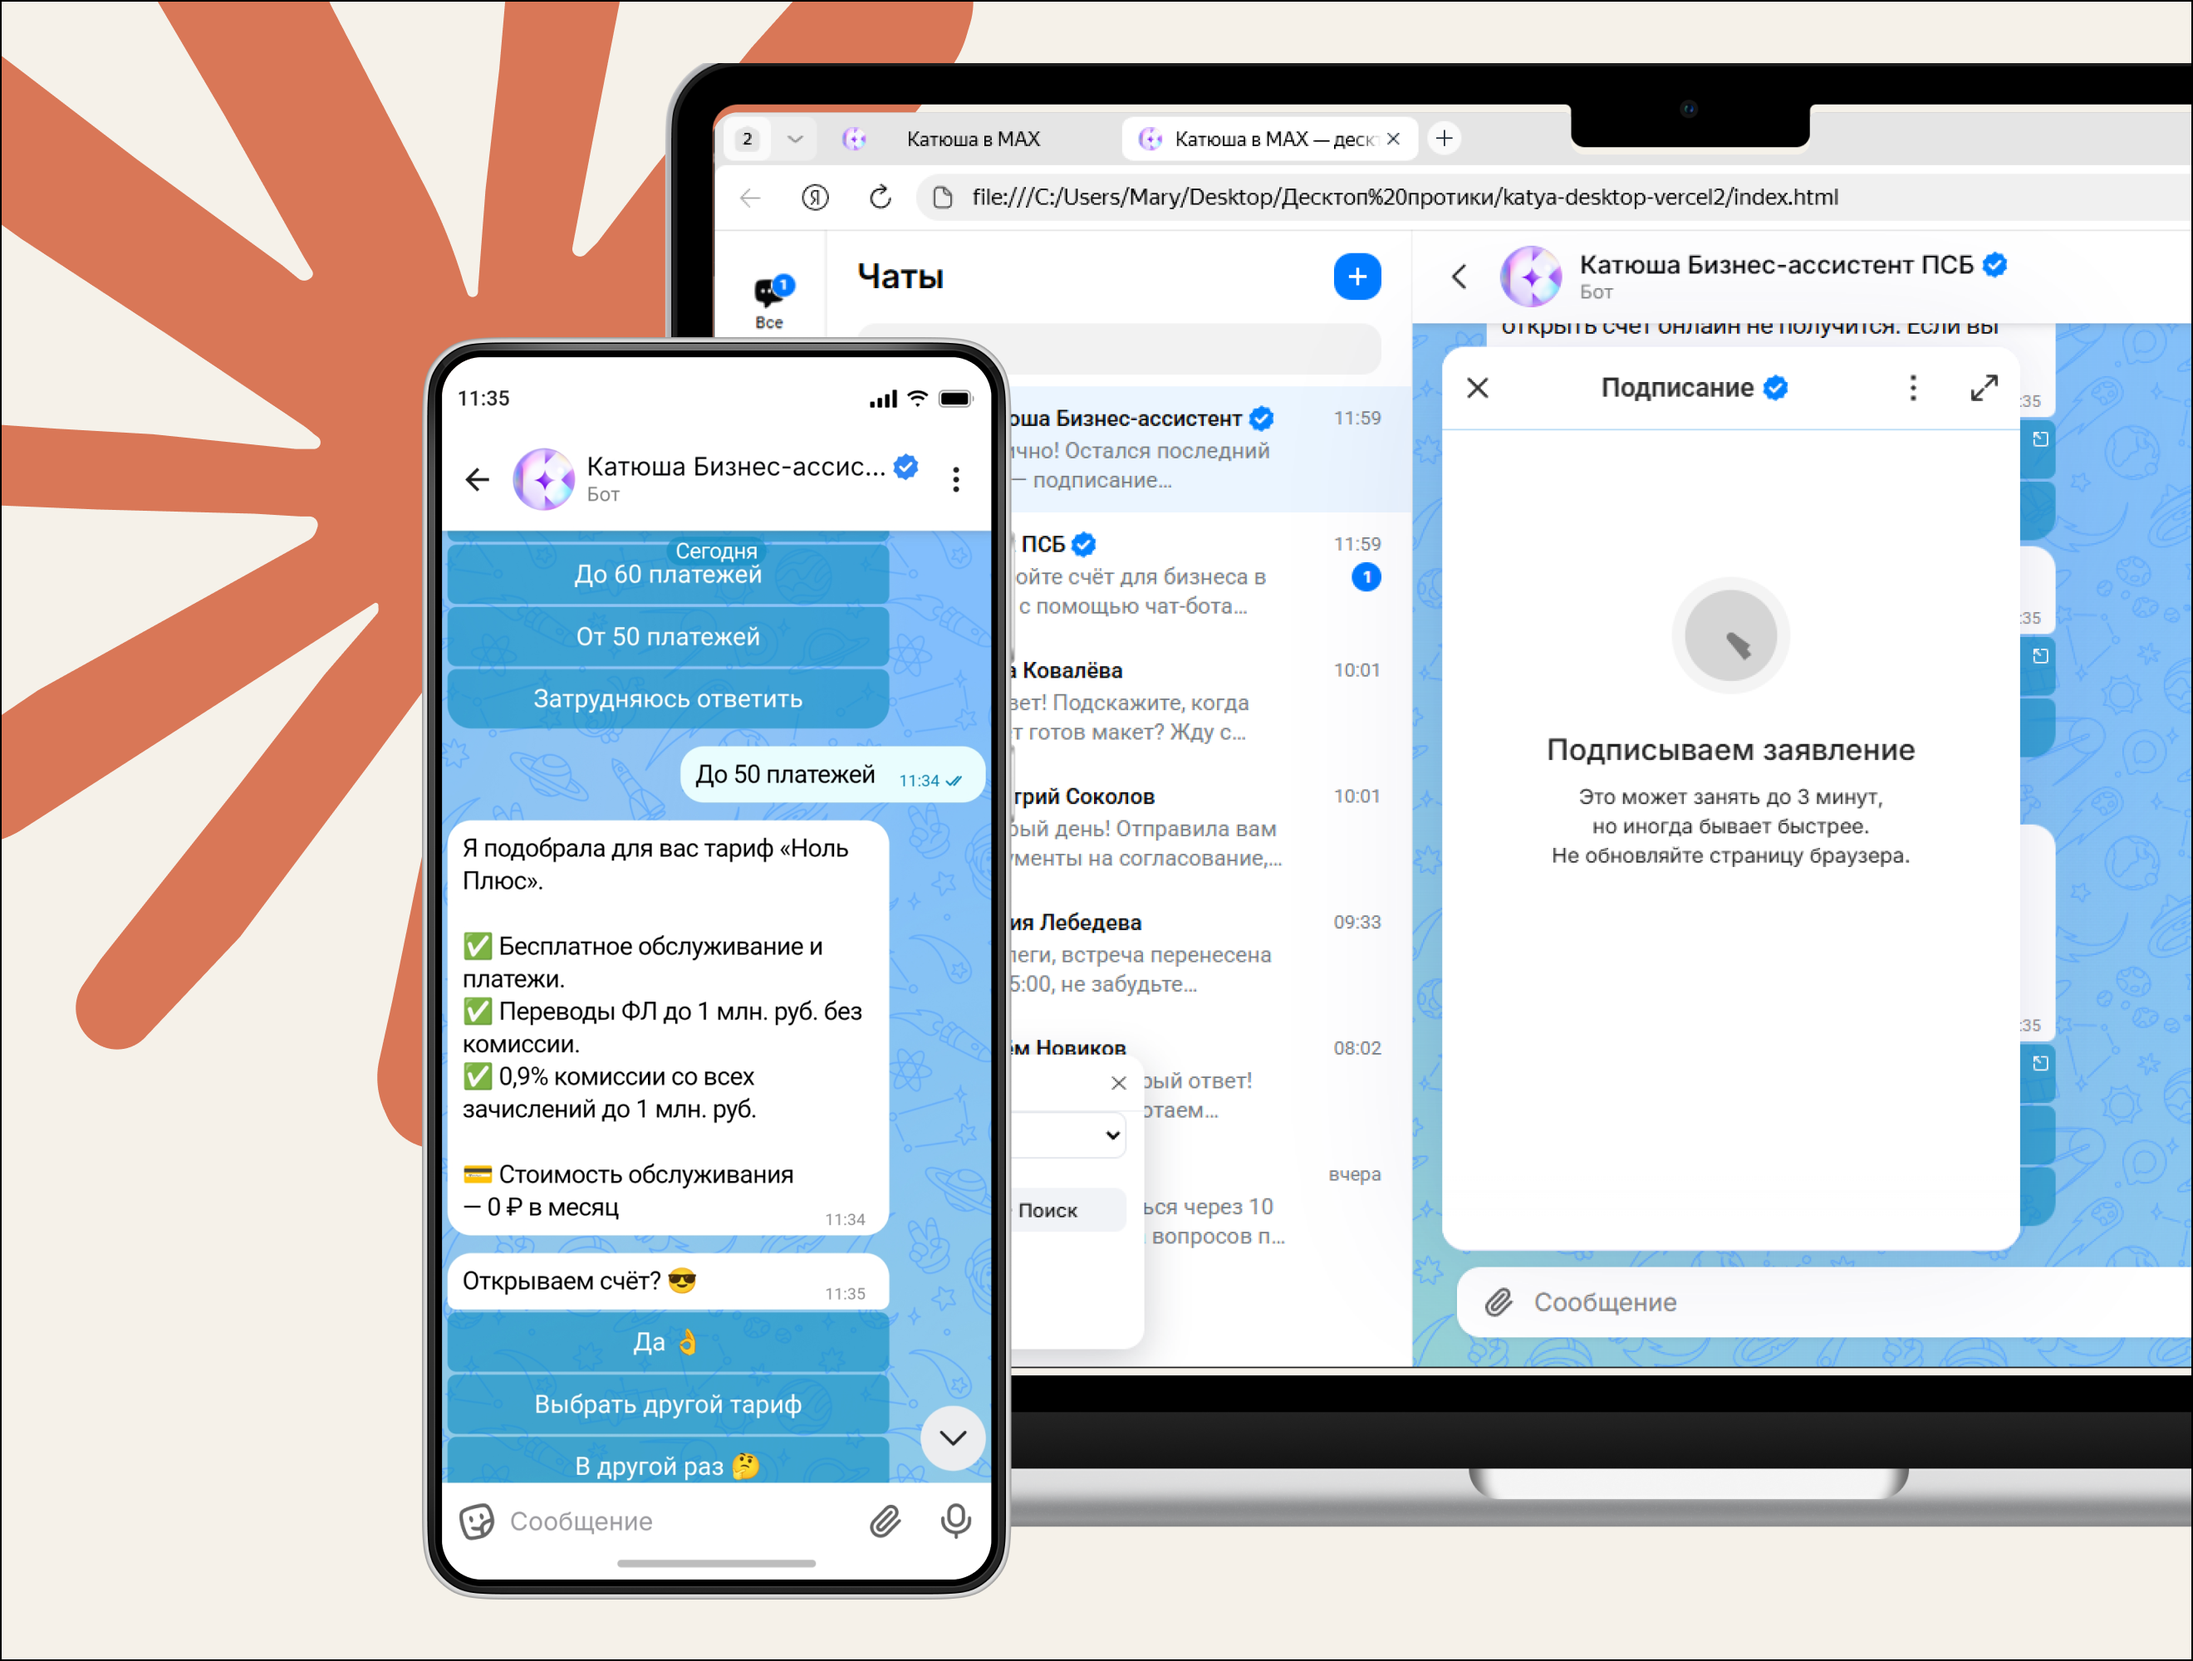
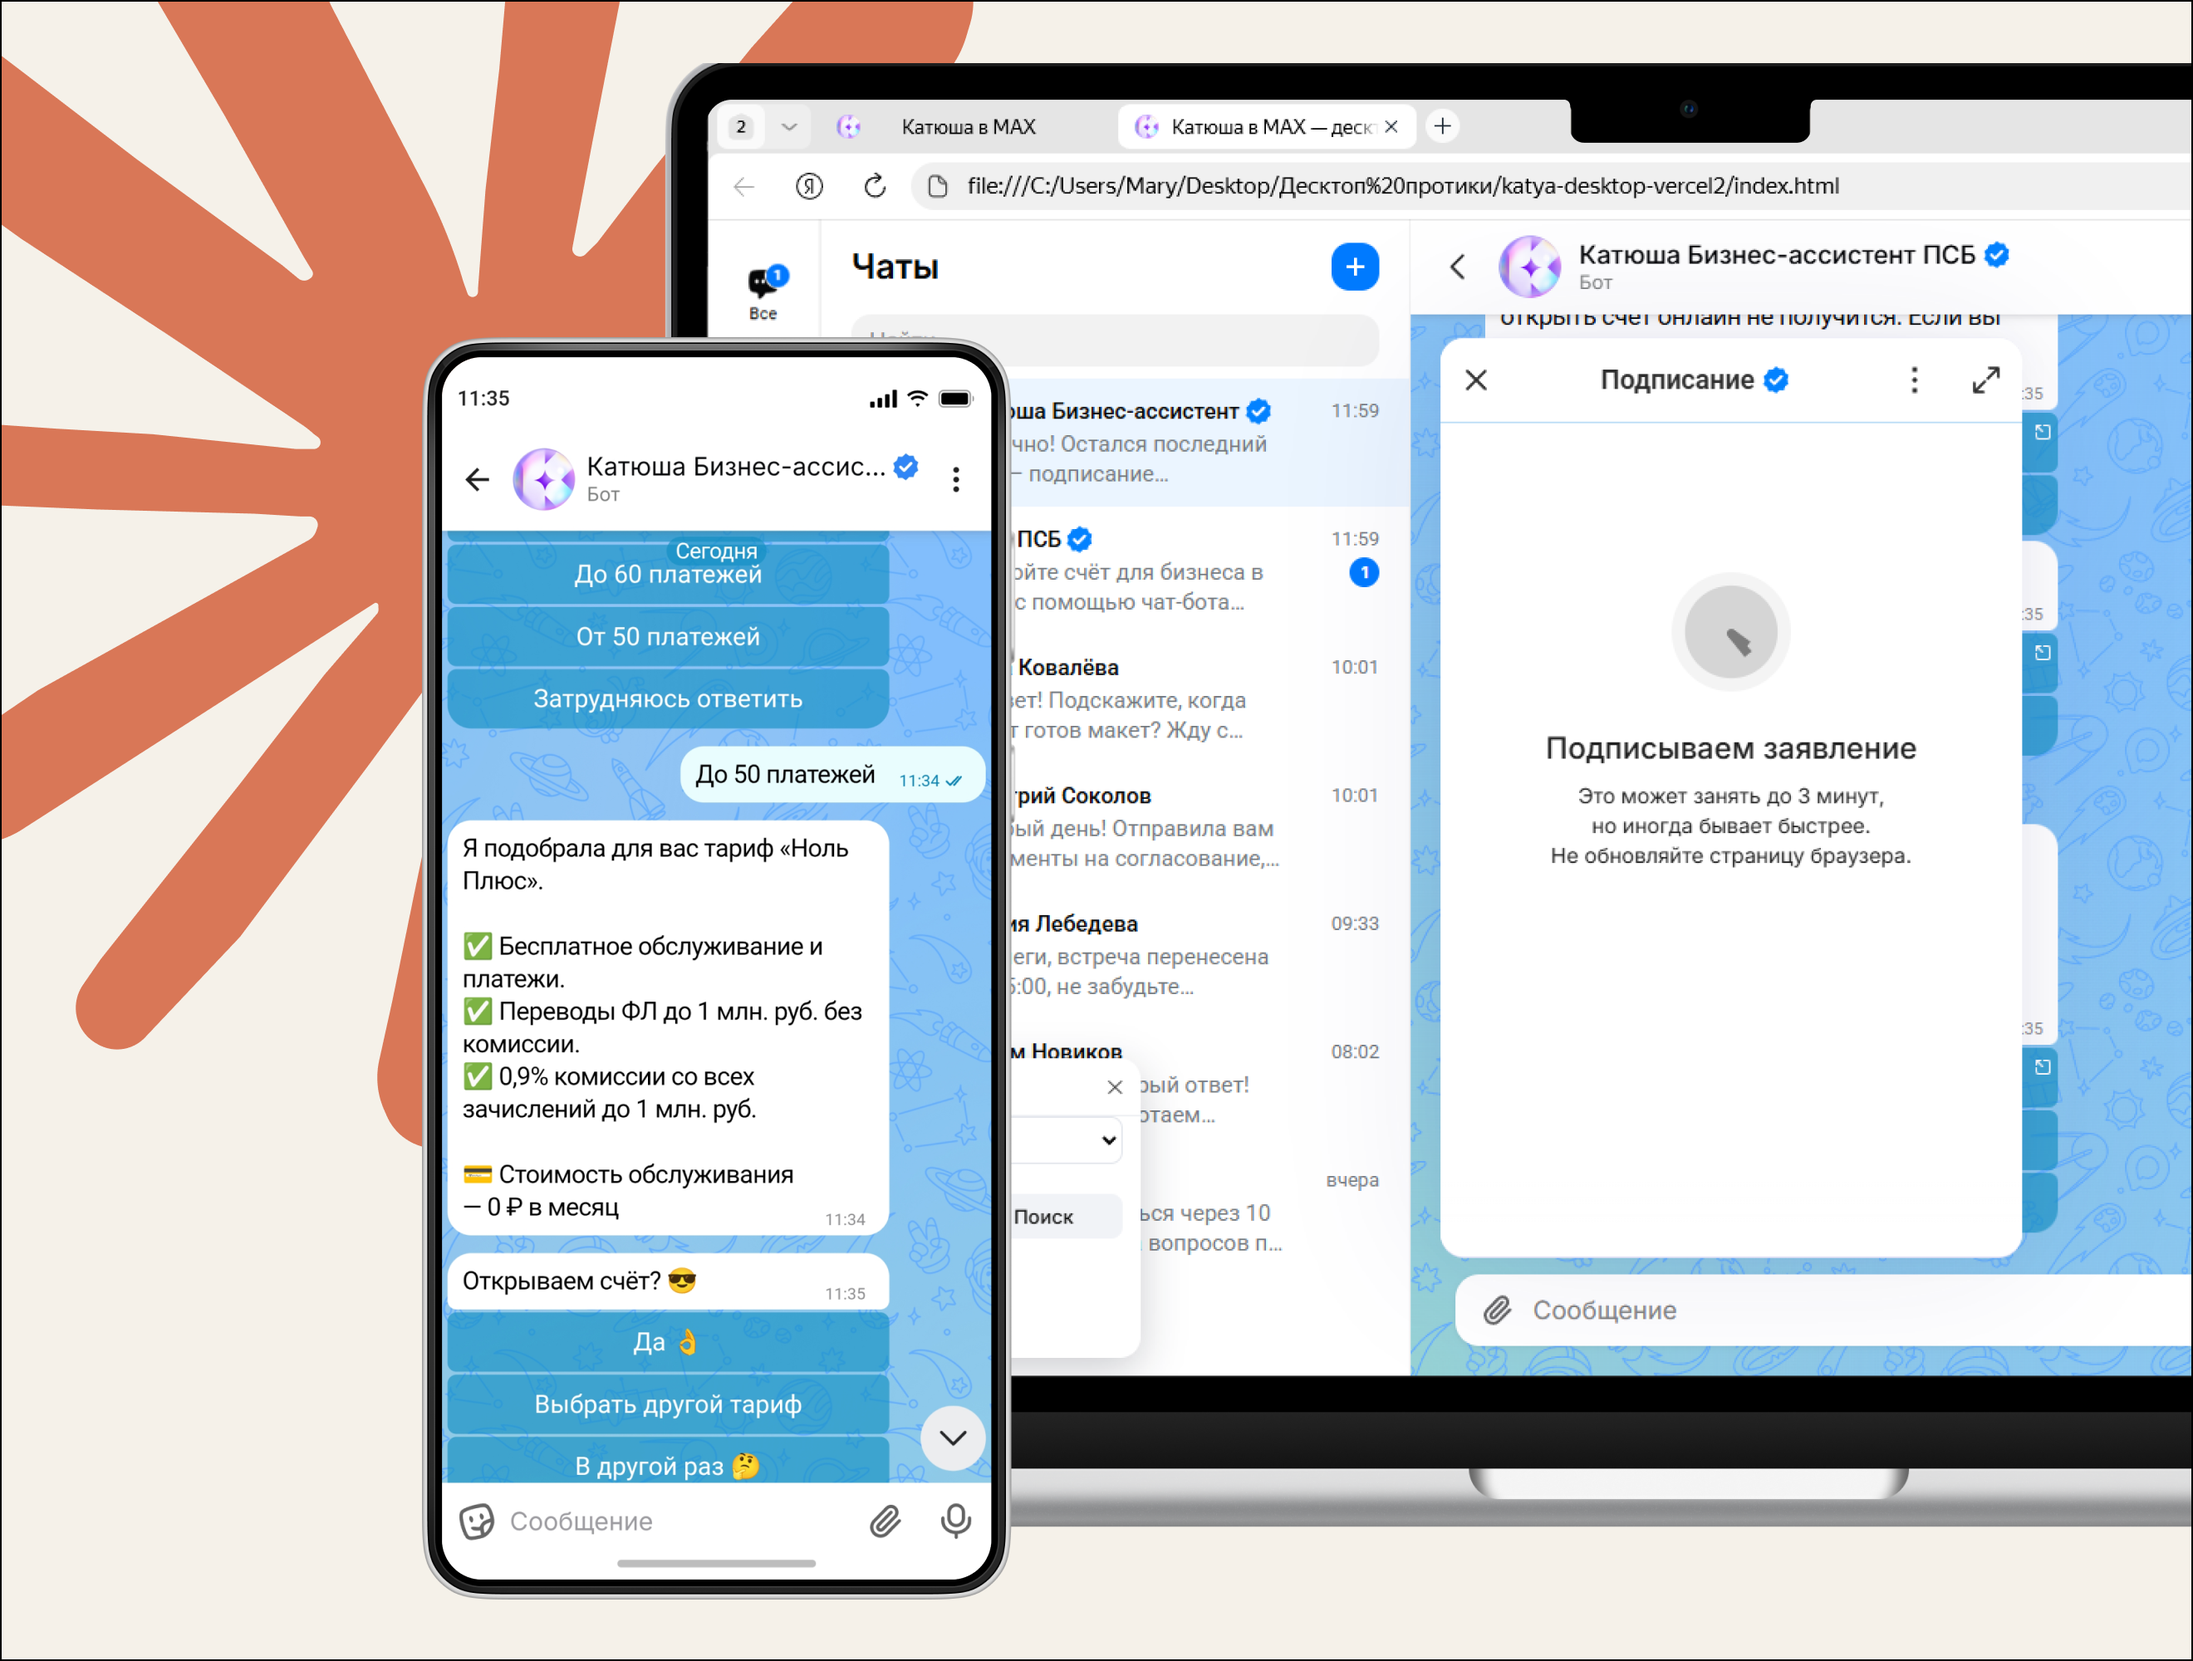
Замени обложку Катюши

diff --git a/claude-progress.md b/claude-progress.md
@@ -4,6 +4,12 @@
 
 ---
 
+## 2026-11-24 — Замени обложку Катюши
+
+- Подключён последний присланный PNG «Катюша клод» без изменений. Изображение проверено на локальной главной.
+
+---
+
 ## 2026-11-24 — Обнови плитку, просмотр изображений и галерею
 
 - Подключены четыре оригинальных PNG размером 2640 × 2000. Файлы побайтово совпадают с присланными. На главной порядок карточек: счёт, Катюша, регистрация, кредитная линия.
